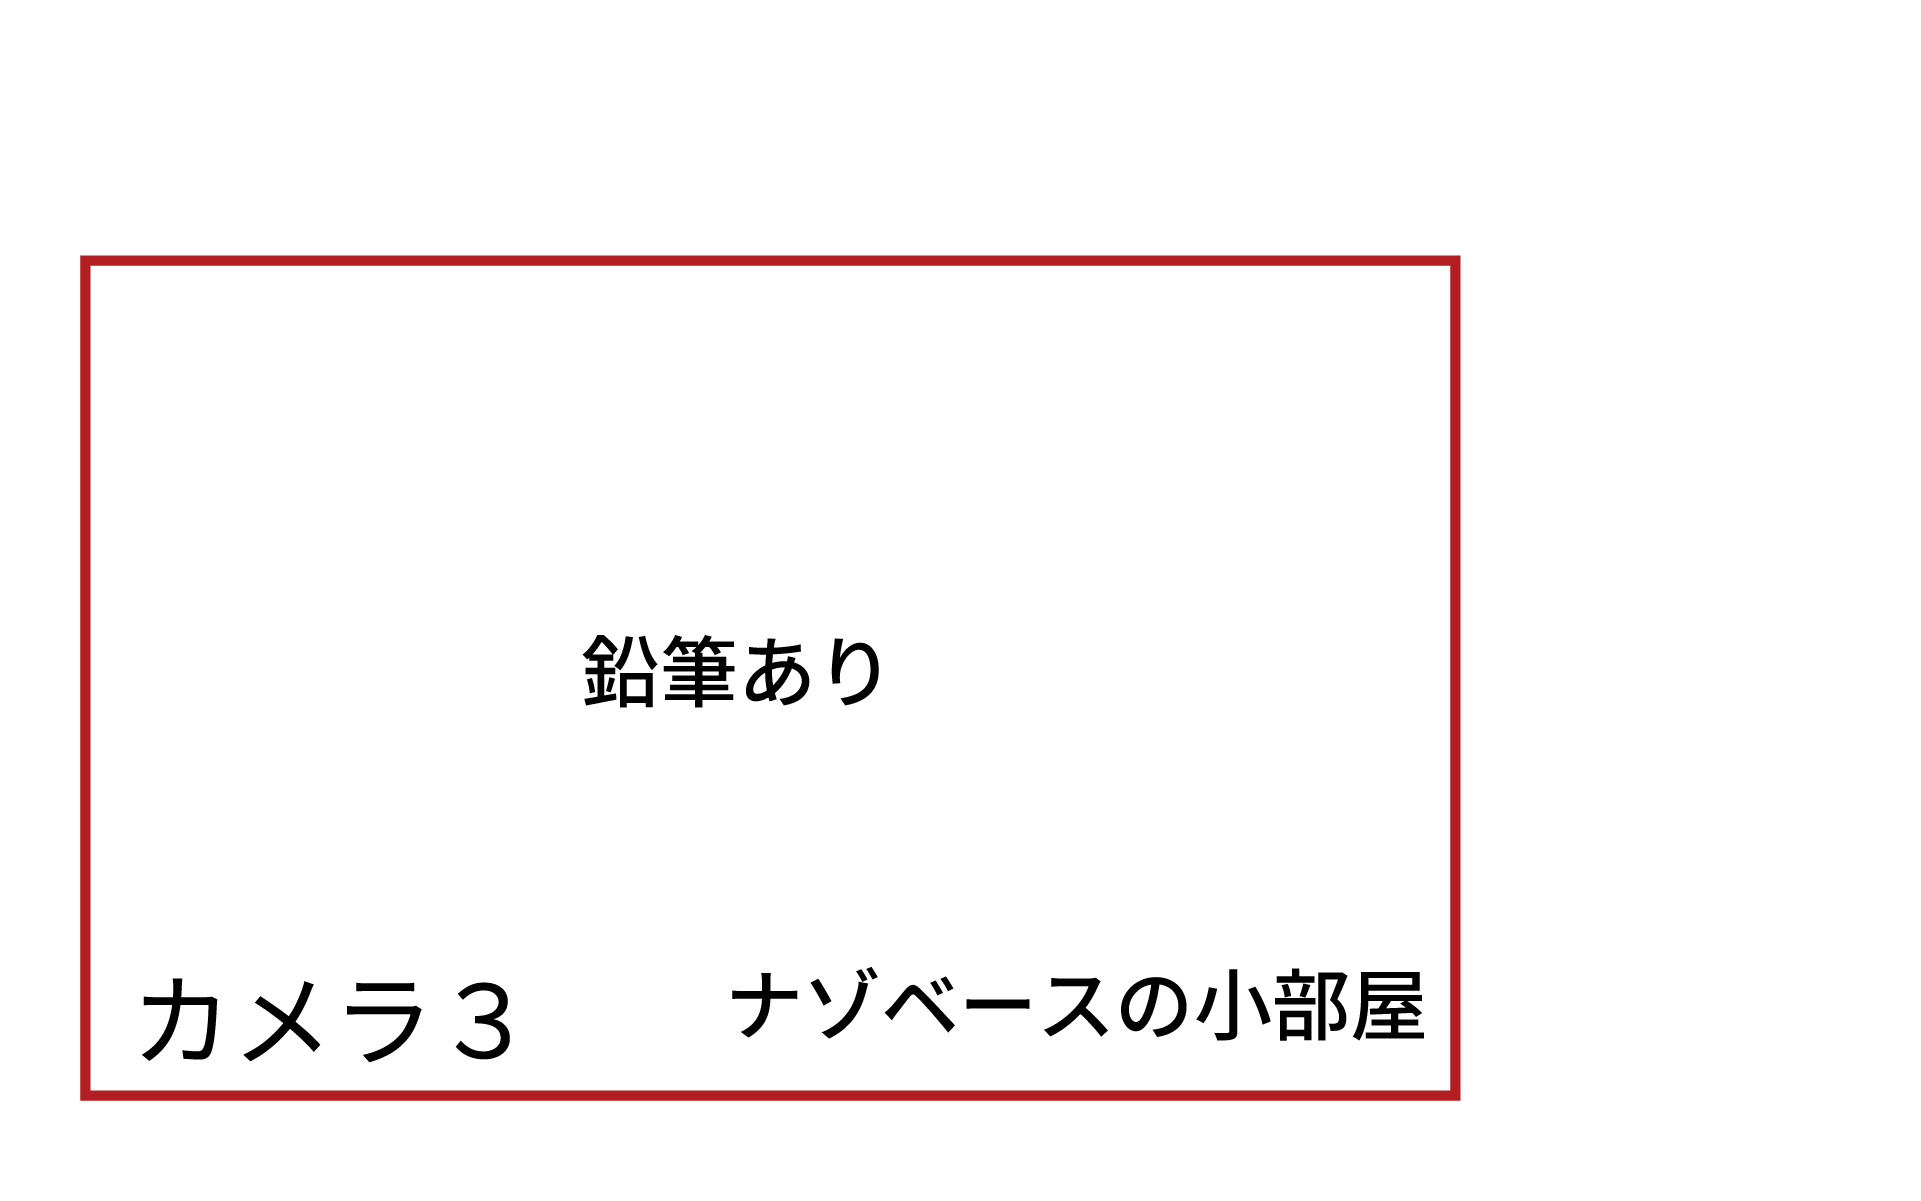
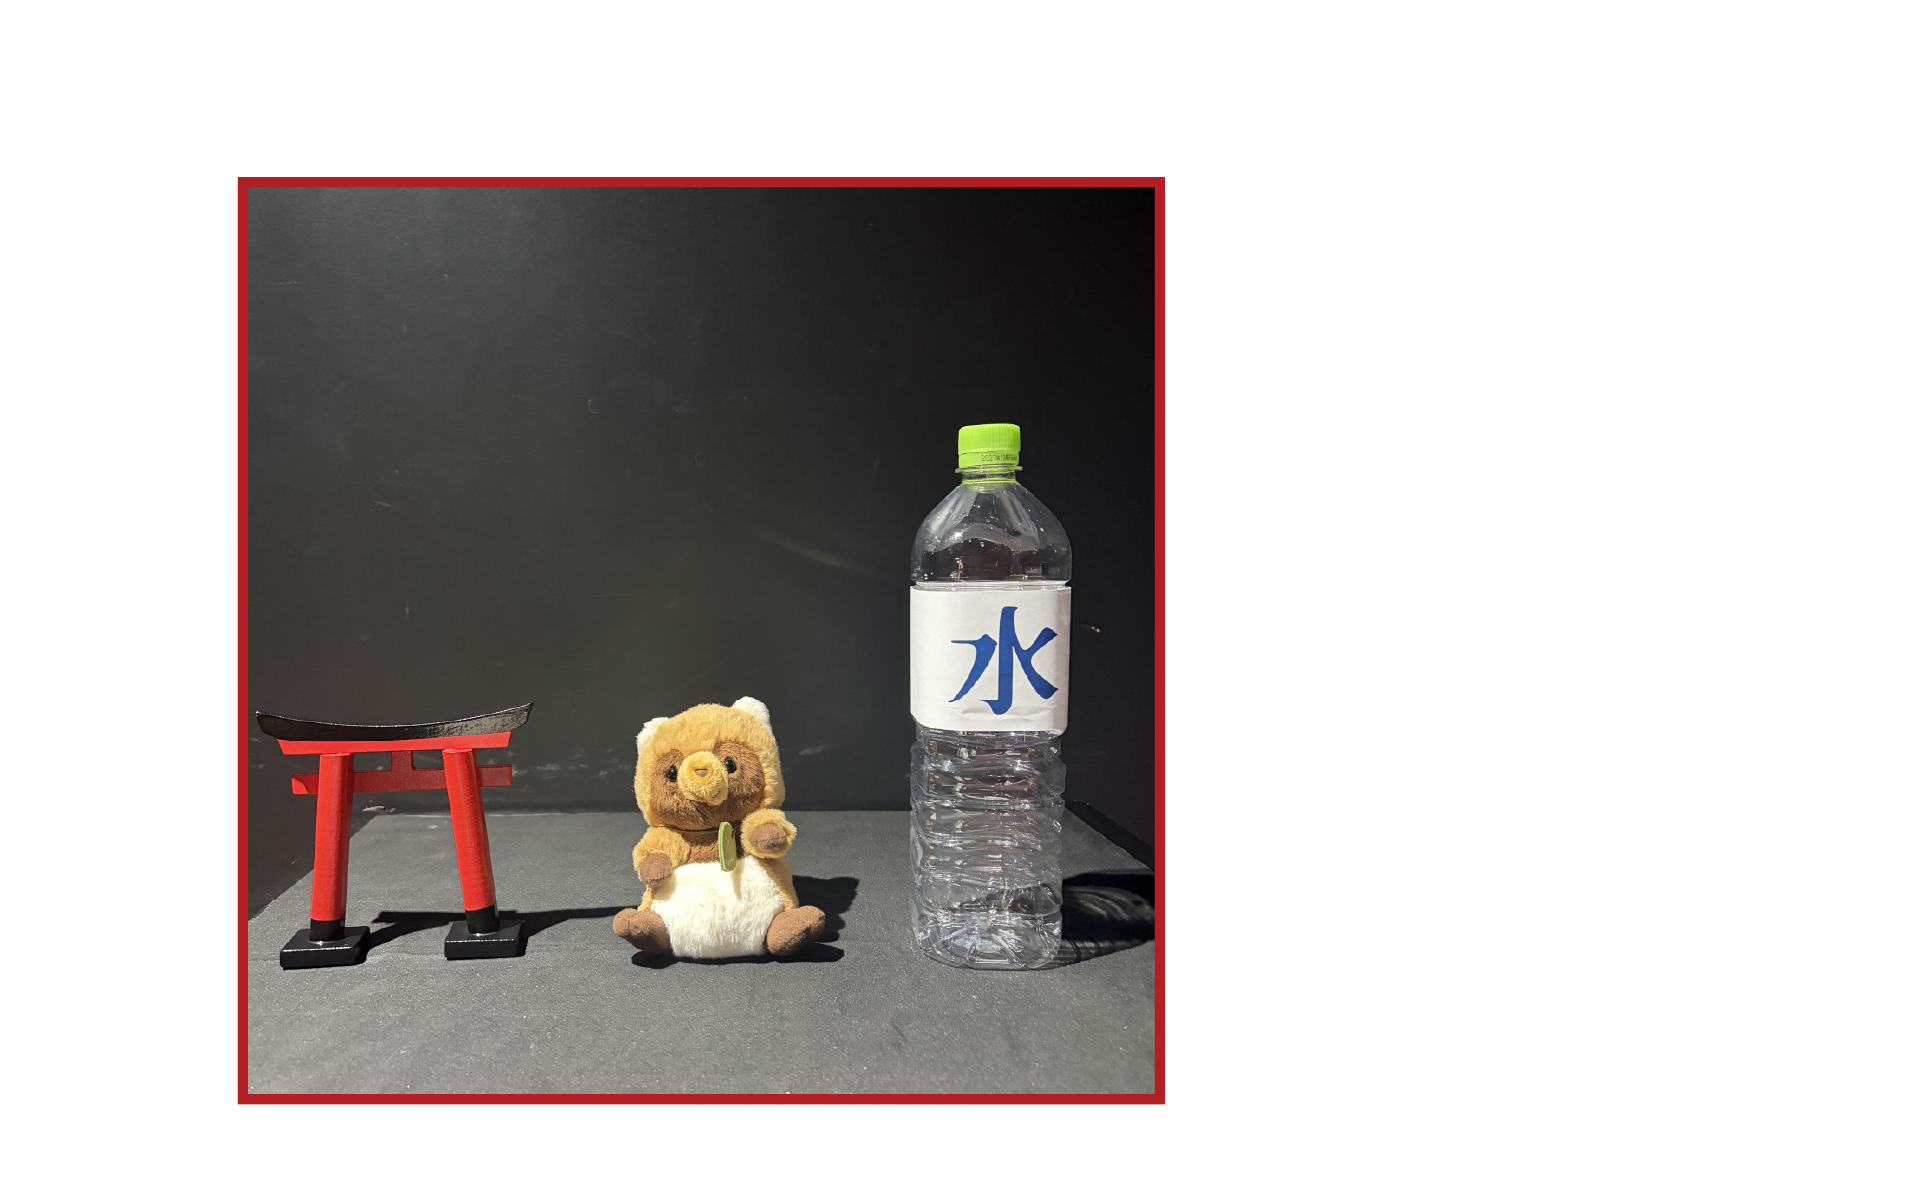
s

diff --git a/asset-cache-config.js b/asset-cache-config.js
@@ -1,7 +1,7 @@
 // 素材を更新した時は、この値だけを変更してください。
 // バージョンが変わると全素材を新しいキャッシュへ再取得します。
 globalThis.CONTROL_ASSET_CACHE = Object.freeze({
-  version: "2026.06.24.38",
+  version: "2026.06.24.40",
   cachePrefix: "control-assets-",
   coreAssets: Object.freeze([
     "./",